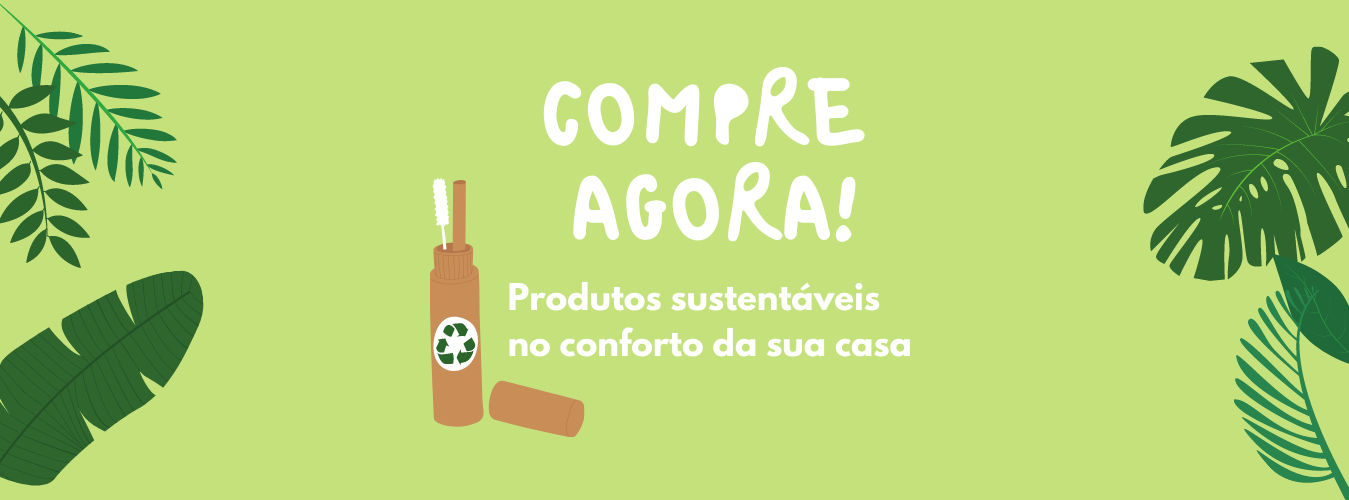
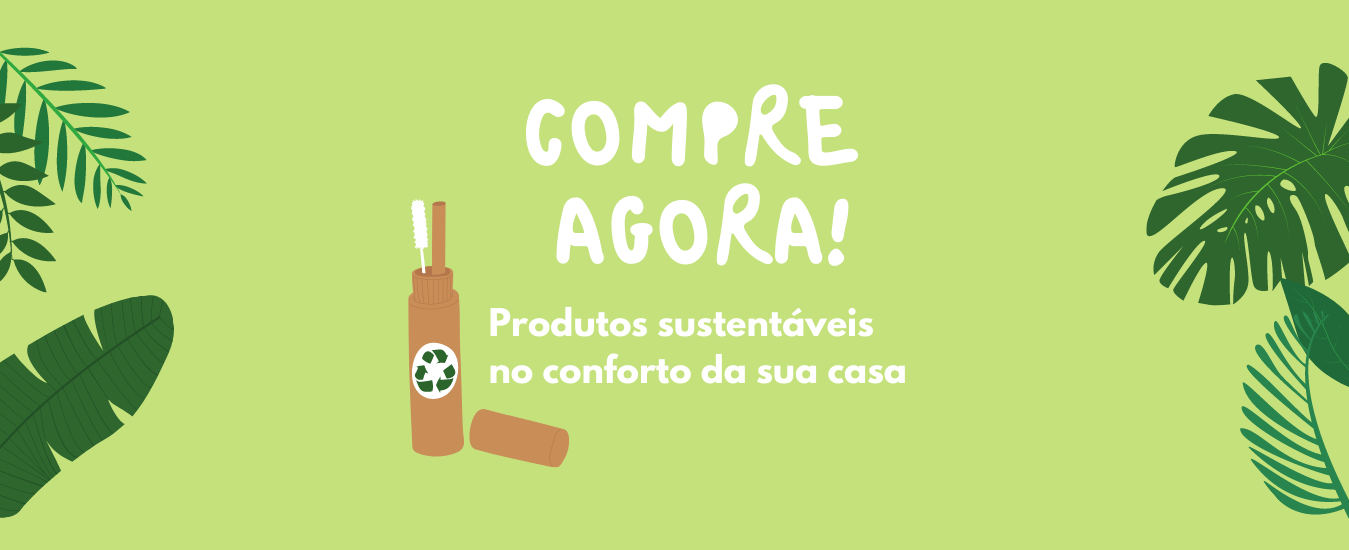
Atualização - 04/12

diff --git a/CSS/style-lojas.css b/CSS/style-lojas.css
@@ -7,7 +7,7 @@ body{
 
 .banner{
 	width: 100%;
-	height: 500px;
+	height: 550px;
 	position: relative;
 	text-align: center;
 }
